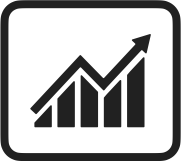
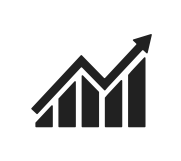
added buttons

diff --git a/css/styles.css b/css/styles.css
@@ -18,8 +18,8 @@ html, body {
 .screenRoot {
   margin: 0 auto; /* Center the container */
   /* Was developped with 100vh, might needs adjustman */
-  height: 100vh;
-  width: 100vw;
+  height: 105vh;
+  width: 105vw;
   flex-direction: row;
   align-items: center;
 }
@@ -96,13 +96,9 @@ html, body {
 .levelDisplay{
   font-size: 1em;
   margin-right: 100px;
-  background-color: var();
 }
 
-/* Hack to disable on hover*/
-.levelDisplay:hover {
-  background-color: var(--Buttoncolor-yellow-color);
-}
+
 
 .achievedLevelButton{
   margin-top: 10px;
@@ -138,24 +134,41 @@ html, body {
 }
 
 .navigationToolbarButton{
-  height: 130px;
-  width: 150px;
+  height: 140px;
+  width: 160px;
   margin-top: 10px;
   margin-bottom: 10px;
   font-size: 0.3em;
+  border-width: 8px;
 }
 
-.wordButton{
+.worldButton{
   margin-left: 120px;
   font-size: 0.3em;
   background-color: var(--Buttoncolor-red-color);
+  background-image: url("../ImageResources/Buttons/WorldmapButtonCropped.png");
+  background-position: center; 
+  background-size: contain;
 }
 
 .statsButton{
   margin-right: 120px;
   font-size: 0.3em;
   background-color: var(--Buttoncolor-red-color);
+  background-image: url("../ImageResources/Buttons/StatsButtonCropped.png");
+  background-size: contain;
 }
+
+.leftArrowButton{
+  background-image: url("../ImageResources/Buttons/ArrowLeftButtonCropped.png");
+  background-size: contain;
+}
+
+.rightArrowButton{
+  background-image: url("../ImageResources/Buttons/ArrowRightButtonCropped.png");
+  background-size: contain;
+}
+
 
 /* Animation styles*/
 

diff --git a/CraKuMaHome.html b/CraKuMaHome.html
@@ -30,7 +30,7 @@
             <!-- Text in the Middle -->
             <div class="crakumaLand"><b>CRAKUMA-LAND<b></div>
             <!-- Level Button  Disabled-->
-            <button class="displayToolbarButton levelDisplay button" onclick="navigateToPage('CraKuMaAvatar.html')">1</button>
+            <button class="displayToolbarButton levelDisplay button">1</button>
           </div>
 
           <div class="settingToolbar toolbarBasics">
@@ -47,13 +47,13 @@
           </div>
           <div class="navigationToolbar toolbarBasics">
             <!-- Button 1-->
-            <button class="wordButton button navigationToolbarButton">World</button>
+            <button class="worldButton button navigationToolbarButton"></button>
             <!-- Button 2-->
-            <button class="leftArrowButton button navigationToolbarButton">Left</button>
+            <button class="leftArrowButton button navigationToolbarButton"></button>
             <!-- Button 3-->
-            <button class="rightArrowButton button navigationToolbarButton">Right</button>
+            <button class="rightArrowButton button navigationToolbarButton"></button>
             <!-- Button 4-->
-            <button class="statsButton button navigationToolbarButton" onclick = "navigateToPage('CraKuMaStats.html')">Stats</button>
+            <button class="statsButton button navigationToolbarButton" onclick = "navigateToPage('CraKuMaStats.html')"></button>
           </div>
         </div>
         </div>
